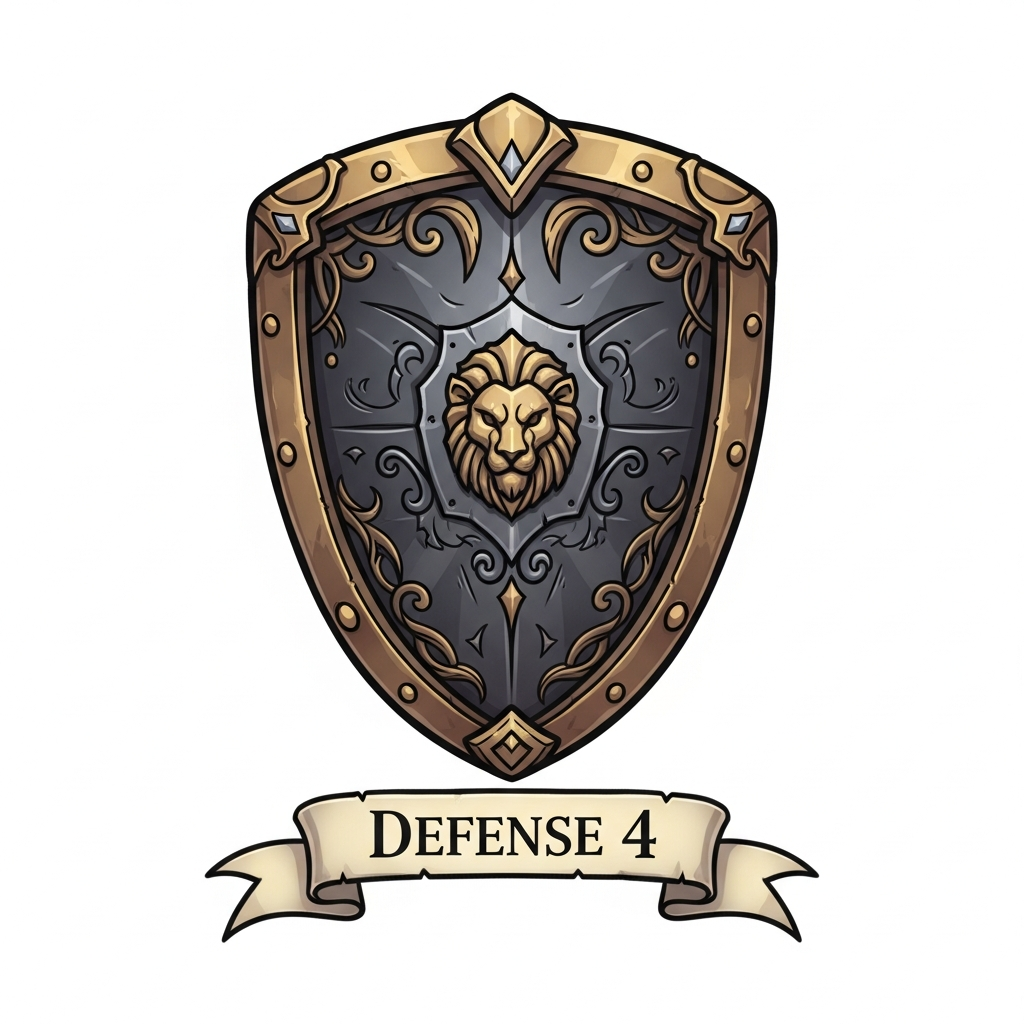
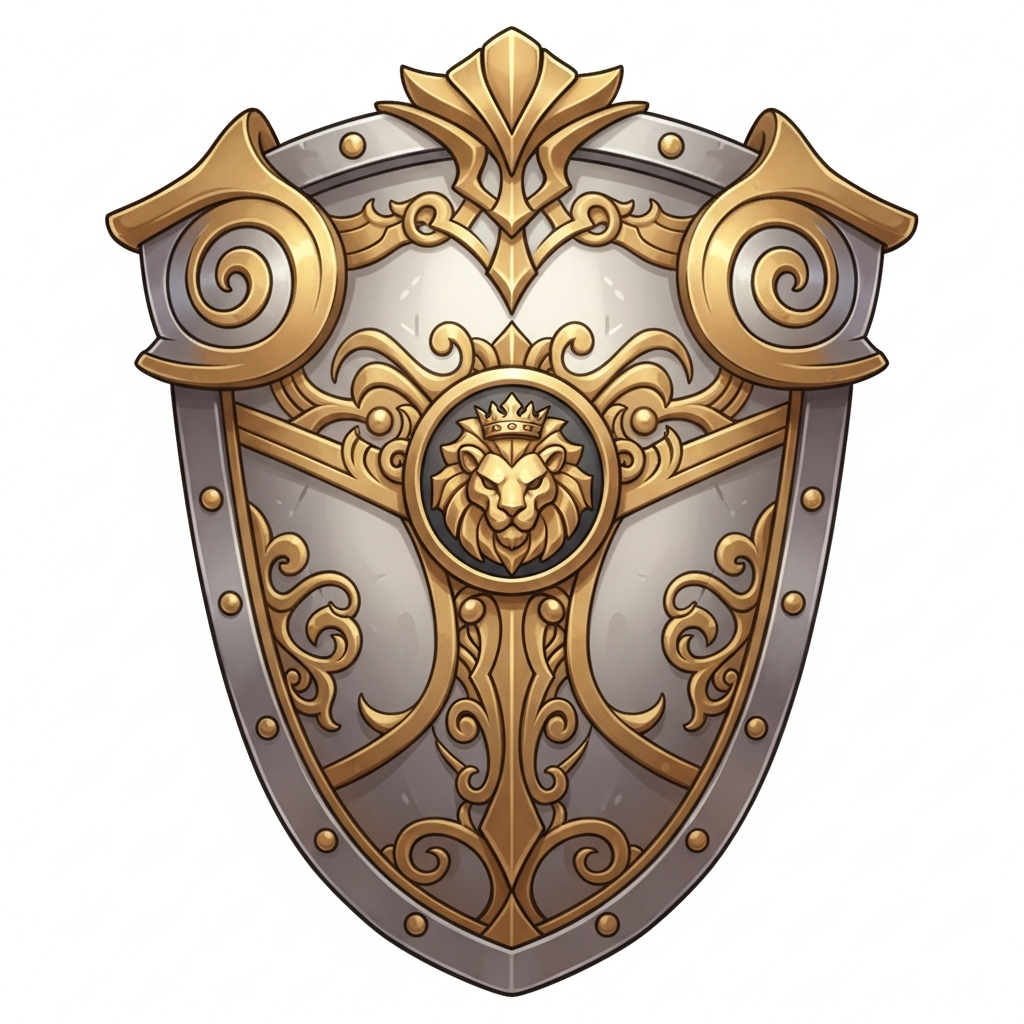
Update shield images to a new Q-version style
Replaced existing shield images with new Q-version style variants and updated GameBoard.tsx to reference them.

Replit-Commit-Author: Agent
Replit-Commit-Session-Id: 82587aa9-d98f-4c98-8c3a-2f51c3a71451
Replit-Commit-Checkpoint-Type: intermediate_checkpoint
Replit-Commit-Event-Id: f5749bf0-372b-4787-b2f3-64206aa6451f
Replit-Commit-Screenshot-Url: https://storage.googleapis.com/screenshot-production-us-central1/605a3a2f-292c-4aeb-8eae-67e371c412df/82587aa9-d98f-4c98-8c3a-2f51c3a71451/qTfekZe

diff --git a/client/src/components/GameBoard.tsx b/client/src/components/GameBoard.tsx
@@ -22,7 +22,7 @@ import swordImage from '@assets/generated_images/cute_cartoon_medieval_sword.png
 import axeImage from '@assets/generated_images/cute_cartoon_battle_axe.png';
 import daggerImage from '@assets/generated_images/cute_cartoon_dagger.png';
 
-// Cute cartoon shields (different tiers)
+// Cute cartoon shields (different tiers) - NEW Q-version style
 import woodenShieldImage from '@assets/generated_images/chibi_wooden_shield.png';
 import ironShieldImage from '@assets/generated_images/chibi_iron_shield.png';
 import heavyShieldImage from '@assets/generated_images/chibi_heavy_shield.png';
